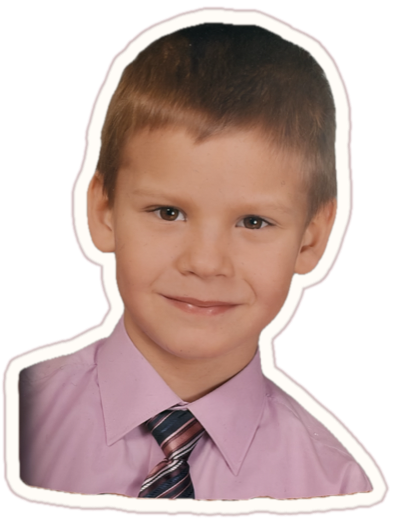
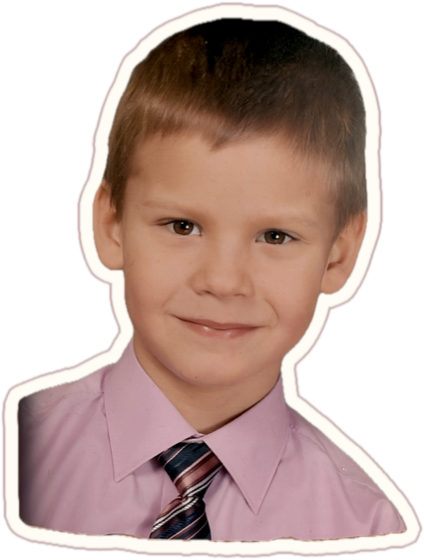
Детские фото: одинаковая обводка и общий цветовой тон

diff --git a/index.html b/index.html
@@ -396,8 +396,8 @@ footer{padding:26px 20px 40px;text-align:center;font-size:12px;color:rgba(247,23
       <svg class="heart float s3" style="width:14px;height:14px;right:2%;top:120px"><use href="#i-heart-f"/></svg>
       <svg class="ic heart float s2" style="width:18px;height:18px;left:30%;top:-6px;--r:-6deg"><use href="#i-sparkle"/></svg>
       <svg class="ic heart float" style="width:16px;height:16px;right:34%;top:-14px"><use href="#i-sparkle"/></svg>
-      <div class="kid boy"><span class="lbl">жених</span><img src="img/boy.png?v=2" alt="Михаил в детстве"></div>
-      <div class="kid girl"><span class="lbl">невеста</span><img src="img/girl.png" alt="Александра в детстве"></div>
+      <div class="kid boy"><span class="lbl">жених</span><img src="img/boy.png?v=3" alt="Михаил в детстве"></div>
+      <div class="kid girl"><span class="lbl">невеста</span><img src="img/girl.png?v=3" alt="Александра в детстве"></div>
       <div class="banner">мы женимся!</div>
     </div>
     <div class="cupid" id="cupid" aria-hidden="true">
